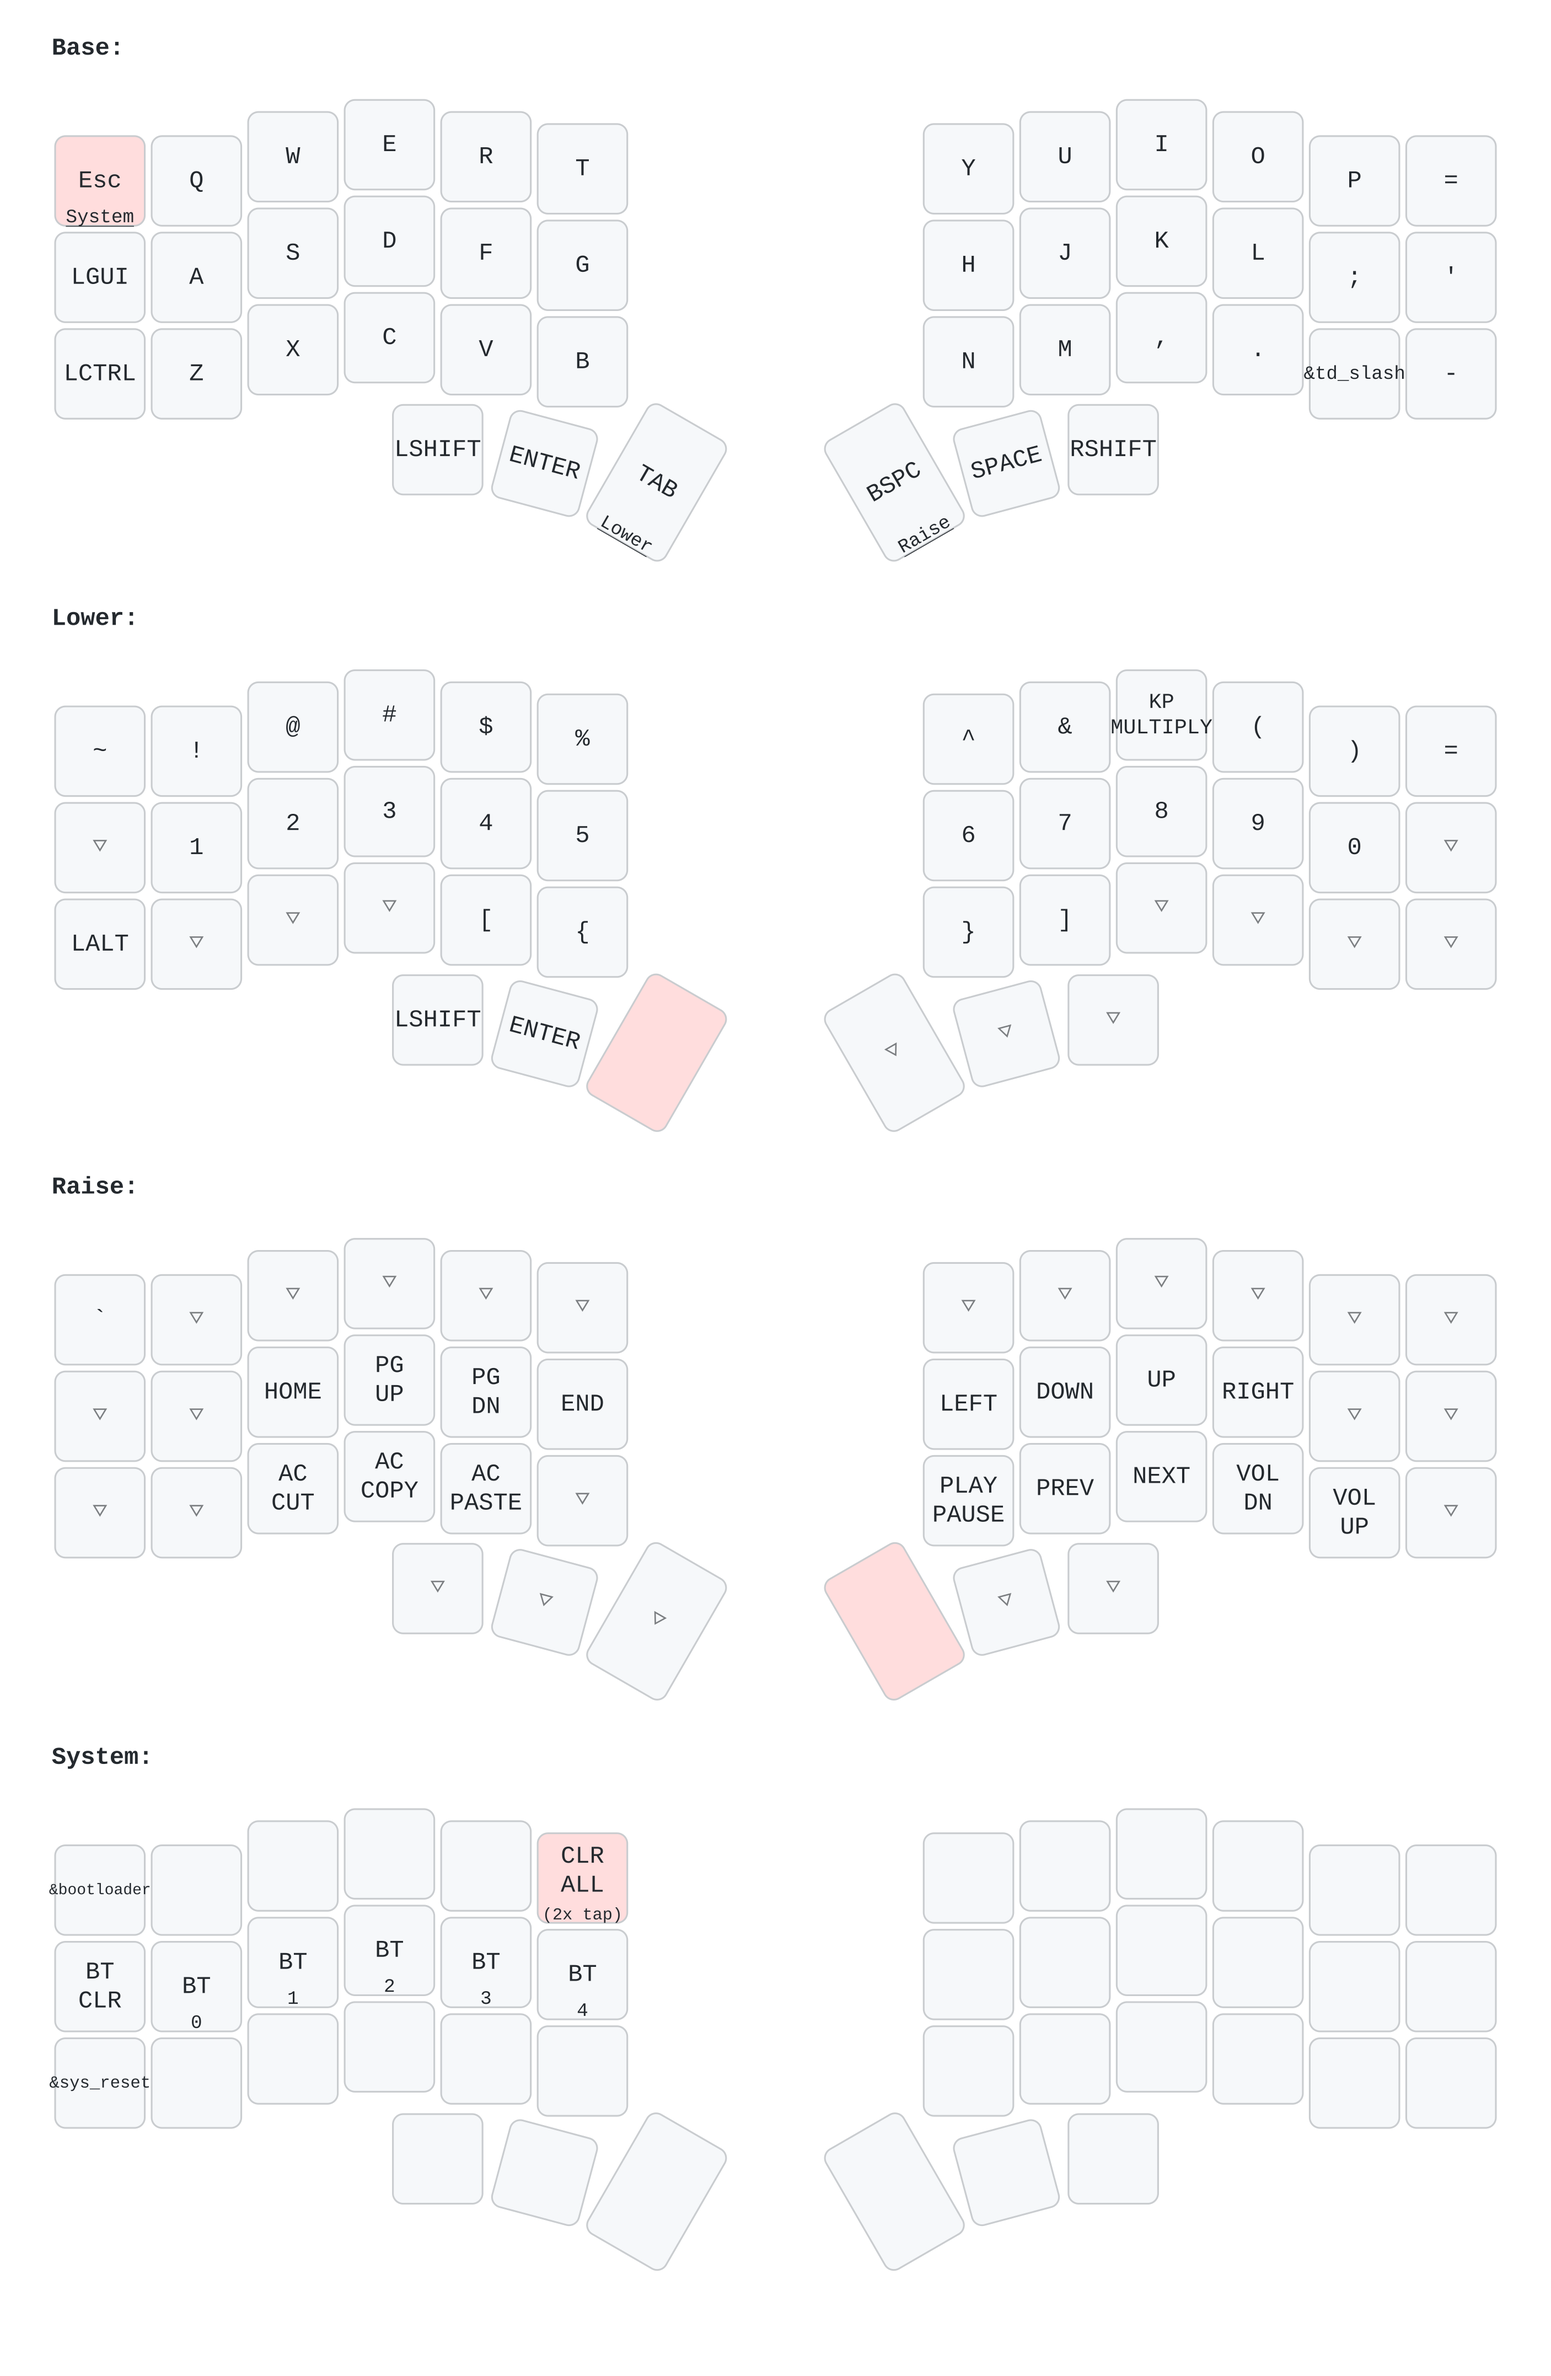
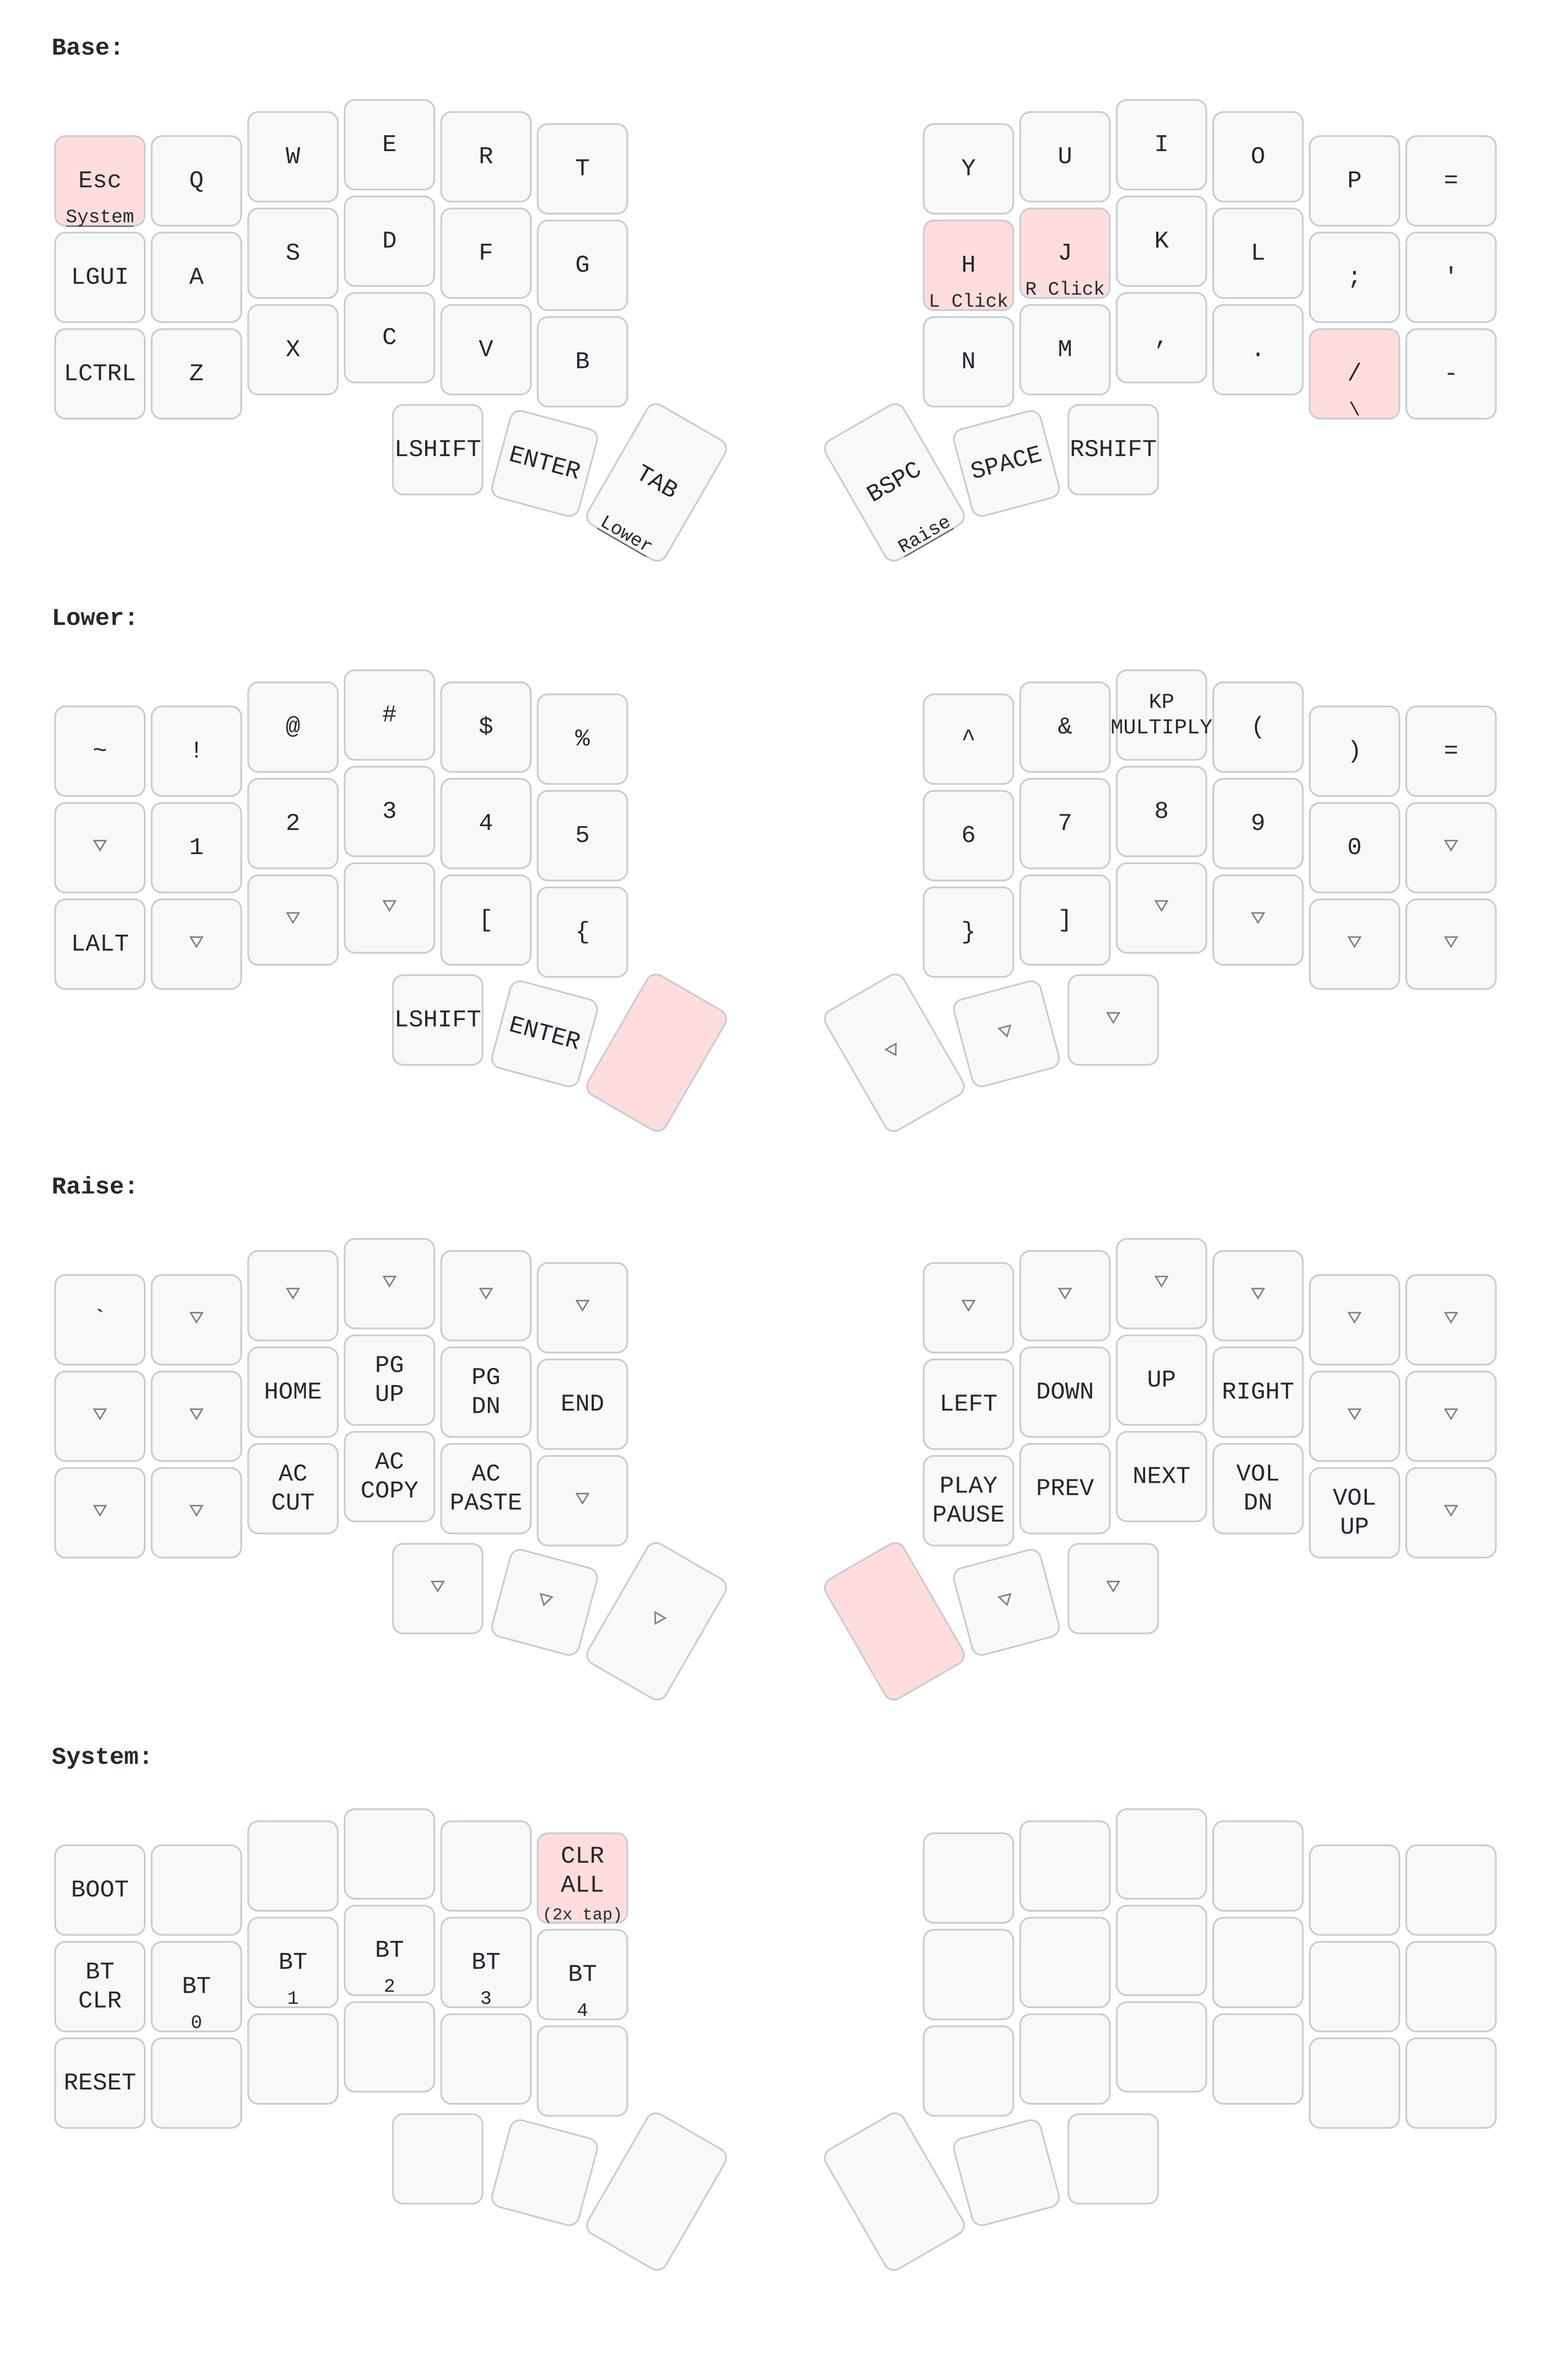
feat(keymap): add H/J mouse clicks for trackball use
Put left/right click on the keyboard so a thumb-operated trackball
(Ploopy Nano 2) can stay movement-only:

- H: tap h, hold = left click (hold + roll ball = drag)
- J: tap j, hold = right click
- new mm hold-tap (tap-preferred, require-prior-idle-ms=150) so
  mid-word h/j never misfire a click
- restore LSHIFT on the left thumb

Update README with a Mouse section and regenerate the keymap
diagram with clean labels (L/R Click, / tap-dance, BOOT, RESET).

Changed region(s): [[0.5876, 0.0622, 0.7423, 0.1555], [0.8351, 0.1244, 0.8969, 0.1866], [0.0619, 0.8707, 0.0928, 0.9018]]

diff --git a/README.md b/README.md
@@ -6,22 +6,40 @@ ZMK firmware configuration for the Corne (CRKBD) keyboard.
 
 ### Layers
 
-- **Base Layer**: QWERTY layout with home row mods
-- **Lower Layer**: Numbers and symbols
-- **Raise Layer**: Navigation, media controls, and Bluetooth
-- **Mouse Layer**: Vim-style mouse navigation with HJKL
+- **Base Layer** (0): QWERTY layout
+- **Lower Layer** (1): Numbers and symbols — hold `TAB` (`&lt 1 TAB`)
+- **Raise Layer** (2): Navigation and media controls — hold `BSPC` (`&lt 2 BSPC`)
+- **System Layer** (3): Bluetooth, bootloader, and reset — see below
 
-### Mouse Layer Features
+### System Layer
 
-The mouse layer provides vim-style cursor control:
-- **H** - Move cursor left
-- **J** - Move cursor down
-- **K** - Move cursor up
-- **L** - Move cursor right
-- **TAB** - Left click
-- **BSPC** - Right click
+Bluetooth, bootloader, and reset controls.
 
-**Activation**: Double-tap left SHIFT to toggle mouse layer on/off
+**Activation**: Hold the top-left `ESC/SYS` key for **5 seconds**. Tap it for
+`ESC`; the long hold prevents accidental triggers. The layer is momentary, so
+keep holding while you press the target key.
+
+| Key | Action |
+|-----|--------|
+| Top-left (`ESC/SYS`) | Enter bootloader (flashing) |
+| Top row, 6th key | Clear all BT bonds (double-tap) |
+| Middle-left | Clear current BT bond |
+| Middle row, keys 1–5 | Select BT profile 0–4 |
+| Bottom-left | System reset |
+
+To pair a device: hold `ESC/SYS` and tap a profile key (0–4).
+
+### Mouse
+
+Left and right click live on the keyboard so a thumb-operated trackball
+(Ploopy Nano 2) can stay movement-only.
+
+- **H**: tap `h`, hold = left click (hold + roll ball = drag)
+- **J**: tap `j`, hold = right click
+
+Clicks use a `tap-preferred` hold-tap (`mm`) with `require-prior-idle-ms=150`
+so mid-word `h`/`j` never misfire a click. Pointer speed is tuned host-side
+(flat accel profile), not in this firmware.
 
 ### Keymap Visualization
 
@@ -48,9 +66,9 @@ This creates:
 
 ## Features
 
-- **Eager Debouncing**: Fast response with 1ms press / 10ms release
-- **ZMK Studio**: Enabled for real-time keymap updates
-- **Mouse Emulation**: Full pointer control from keyboard
 - **Tap Dance**:
   - `/` key: single tap `/`, double tap `\`
-  - Left SHIFT: single tap SHIFT, double tap toggle mouse layer
+  - Clear-all-bonds key (System layer): double-tap required to fire `BT_CLR_ALL`
+- **Hold-Tap**:
+  - `ESC/SYS` key: tap `ESC`, hold 5s for the System layer
+  - `H` / `J`: tap letter, hold for left / right mouse click
